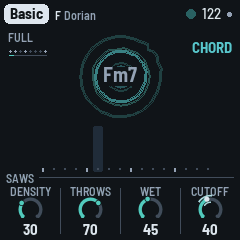
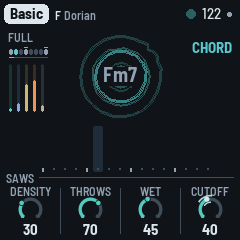
1.4.0: the strips' room (the user's: both): five thin level strips at the left on every page but Arrangement (the chord, the pings, the bass, the drums, the noise; its meters', -48..0 dB; a mute dark, soloed out dimmed), the parts measured on every page now; the phrase's eight bars as cells under th

Changed region(s): [[0.0292, 0.2042, 0.2042, 0.4667]]

diff --git a/firmware/src/app/ui.c b/firmware/src/app/ui.c
@@ -2546,7 +2546,8 @@ static void meter_take(uint32_t now)             /* every frame: the engine's pe
     const float dt = mt.t ? (float)(now - mt.t) * 0.001f : 0.0f;
     int i;
     mt.t = now;
-    en_meter_on = ui.view == V_PERF || ui.view == V_MIX;   /* (the parts measured on this page only: the master always) */
+    en_meter_on = 1;                             /* (1.4.0, the user's: the parts measured on every page now, the strips at
+                                                  * the left theirs) */
     for (i = 0; i < EN_NMETER; i++) {
         const float pk = en_meter[i], d = mt_db(pk);
         en_meter[i] = 0.0f;
@@ -3274,6 +3275,32 @@ static void draw_card(uint32_t now)
     text_c(CX, y + 28, &FONT_XS, ui.card_text, tc);
 }
 
+/* (1.4.0, the user's) at the left, under the phrase: the parts' levels, five thin strips (the chord, the pings, the
+ * bass, the drums, the noise), their meters' (the Arrangement page's), -48..0 dB; a muted part's dark */
+#define ST_Y 36
+#define ST_H 48
+static int strip_h(int r) { return mt_state(r) == 2 ? 0 : (int)(fm_clampf((mt.db[r] + 48.0f) * (1.0f / 48.0f), 0.0f, 1.0f) * ST_H + 0.5f); }
+static void draw_strips(void)
+{
+    static const uint16_t C[NLAYER] = {K_PAD, K_BELL, K_BASS, K_PULSE, K_NOISE};
+    int r;
+    for (r = 0; r < NLAYER; r++) {
+        const int32_t x = 9 + r * 8, h = strip_h(r);
+        const uint16_t c = mt_state(r) == 1 ? mix(K_BG, C[r], 8) : C[r];
+        cv_round(x, ST_Y, 3, ST_H, 1, mix(K_BG, C[r], 3));
+        if (h > 0)
+            cv_round(x, ST_Y + ST_H - h, 3, h, 1, c);
+    }
+}
+static uint32_t strips_sig(void)
+{
+    uint32_t h = 2166136261u;
+    int r;
+    for (r = 0; r < NLAYER; r++)
+        h = hash(h, (uint32_t)strip_h(r) | (uint32_t)mt_state(r) << 8);
+    return h;
+}
+
 /* the corners of the main screen: the phrase's section and its eight bars, the way to the next chord (top left); the
  * page's name, SOLO, hold and lock (top right) */
 static void draw_where(uint32_t now)
@@ -3285,17 +3312,22 @@ static void draw_where(uint32_t now)
         cv_text(8, 2, &FONT_XS, t, en_section == SEC_FULL ? K_DIM : K_ACC);
         for (b = 0; b < 8; b++) {                /* (1.3.0: bars 4 and 8, the B bars, whiter; the 8th blinking on its
                                                   * bar when the next phrase brings a change) */
-            const int bb = (b == 3 || b == 7) && !ui.lock, lit = en_playing && b <= en_phrase_bar;   /* (Lock: all alike) */
-            uint16_t c = lit ? (bb ? K_TEXT : K_DIM) : (bb ? K_DIM : K_LINE);   /* (B bars: ahead, as bright as one played) */
+            const int bb = (b == 3 || b == 7) && !ui.lock, lit = en_playing && b <= en_phrase_bar,   /* (Lock: all alike) */
+                      now_b = en_playing && b == en_phrase_bar;
+            uint16_t c = now_b ? K_ACC : lit ? (bb ? K_TEXT : K_DIM) : (bb ? K_DIM : K_LINE);   /* (B bars: ahead, as
+                                                  * bright as one played; 1.4.0, the user's: a cell a bar, the one
+                                                  * playing lit) */
             if (b == 7 && en_playing && en_phrase_bar == 7 && en_change_next)
                 c = (now / 200u) & 1u ? K_ACC : K_LINE;
-            cv_round(9 + b * 5, 22, 3, 3, 1, c);
+            cv_round(9 + b * 5, 21, 4, 6, 1, c);
+            if (bb)                              /* (the B bars: a tick over them) */
+                cv_rect(9 + b * 5, 19, 4, 1, lit ? K_TEXT : K_DIM);
         }
         if (!en_frozen && en_drift_bars(proj.par[P_DRIFT])) {   /* under them, the way to the next chord (Drift) */
-            int32_t f = (int32_t)(en_drift * 38.0f + 0.5f);
-            cv_rect(9, 27, 38, 1, K_LINE);
+            int32_t f = (int32_t)(en_drift * 39.0f + 0.5f);
+            cv_rect(9, 29, 39, 1, K_LINE);
             if (f > 0)
-                cv_rect(9, 27, f, 1, K_PAD);
+                cv_rect(9, 29, f, 1, K_PAD);
         }
     }
     {   /* (1.3.0) top right: the page's name (PERFORM's too); to its left, LOCK and SOLO while on */
@@ -3400,7 +3432,8 @@ static void draw_main(void)
         h = hash(h, en_chord[i]);
     for (i = 0; i < 6; i++)
         h = hash(h, en_lane[i] | (uint32_t)proj.par[i < 4 ? i : 0] << 16);
-    h = hash(h, en_drum_pos[0]);                 /* (1.4.0: the level strips and the duck meter gone, their redraws too) */
+    h = hash(h, en_drum_pos[0]);                 /* (1.4.0: the duck meter gone; the strips thin, at the left) */
+    h = hash(h, strips_sig());
     h = hash(h, (uint32_t)(en_prog_pos + 1) << 12);
     h = hash(h, (uint32_t)(en_drift * 40.0f) | en_section << 8 | (uint32_t)en_phrase_bar << 12 | (uint32_t)ui.perf << 16 | ui.solo << 20 |
                 (uint32_t)ui.lock << 28);
@@ -3493,6 +3526,7 @@ static void draw_main(void)
             text_c(CX, CY + 11, &FONT_XS, t, K_DIM);
         }
     }
+    draw_strips();
     draw_where(now);
     draw_lanes();
     draw_oct(now);

diff --git a/docs/MANUAL.md b/docs/MANUAL.md
@@ -314,7 +314,7 @@ GLO held on, RESET (red); SEL held, LOCK. Evolve's own nudges show no card.
 
 ## 4. The screen
 
-![The main screen on the Form page: Basic, F Dorian, tempo 122; FULL and the phrase's eight dots top left, bars 4 and 8 brighter, the line to the next chord under them; FORM top right; the ripples with the chord's name in the middle, the six lanes below; FILTER Off, EVOLVE 55, MOTION 30 (its ring marked at 40 and 70), DRIFT 64 bars](img/screen-main.png "The Form page (HOME)")
+![The main screen on the Form page: Basic, F Dorian, tempo 122; FULL and the phrase's eight bar cells top left, bars 4 and 8 ticked, the line to the next chord under them, the five thin level strips under it; FORM top right; the ripples with the chord's name in the middle, the six lanes below; FILTER Off, EVOLVE 55, MOTION 30 (its ring marked at 40 and 70), DRIFT 64 bars](img/screen-main.png "The Form page (HOME)")
 ![A Groove phrase: GROOVE lit top left, fewer stabs in the top lane; MOTION 80](img/screen-groove.png "A Groove")
 
 - **Top line:** the piece in a tag, its root and mode. On the right, a beat light (a play triangle
@@ -324,12 +324,15 @@ GLO held on, RESET (red); SEL held, LOCK. Evolve's own nudges show no card.
   the audio's dropouts, beside the CPU's load); three bars (the outline red when it's nearly empty), or the bars filling
   in turn while USB powers and charges it. Messages ("ADDED F#", "NEXT CHORD ON THE BAR", "DUB HOLD ON", "KICK OFF") show here for
   a moment.
-- **Top left:** the section playing (FULL in grey; BREAK, GROOVE and THIN lit up) and eight dots,
-  the phrase's bars, lit up to the bar playing. Bars 4 and 8, the B bars of the phrase plan (see
-  [The arrangement](#6-the-arrangement)), are brighter, ahead and played; under Lock all eight are
-  alike. On the phrase's last bar, dot 8 blinks when the next phrase brings a change: a new plan,
-  another kick shape or another section. Under the dots, a thin line fills up on the way to the
-  next chord (none when Drift is Hold, or in dub hold).
+- **Top left:** the section playing (FULL in grey; BREAK, GROOVE and THIN lit up) and the phrase's
+  eight bars, a cell each, lit up to the bar playing, the one playing in teal. Bars 4 and 8, the B
+  bars of the phrase plan (see [The arrangement](#6-the-arrangement)), have a tick over them and are
+  brighter, ahead and played; under Lock all eight are alike. On the phrase's last bar, cell 8 blinks
+  when the next phrase brings a change: a new plan, another kick shape or another section. Under the
+  cells, a thin line fills up on the way to the next chord (none when Drift is Hold, or in dub hold).
+- **At the left, under them:** five thin strips, the levels of the chord (teal), the pings (blue),
+  the bass (brass), the drums (amber) and the noise (grey), as the Arrangement page's meters measure
+  them (−48 to 0 dB): a glance at the mix. A muted part's strip is dark; soloed out, dimmed.
 - **Top right:** the page's name, in teal (ARRANGEMENT on SEL's page). SOLO, in yellow, to its left
   while a solo is on. Above it, in red: "hold" in dub hold, "lock" under Lock.
 - **The ripples:** each stab drops a ring in the middle that spreads and fades. Its outline is the
@@ -365,8 +368,8 @@ GLO held on, RESET (red); SEL held, LOCK. Evolve's own nudges show no card.
     (11 kHz, right). Each band is a column of segments: teal, then brass, amber and red at the
     top. The columns jump up with the sound and fall back slowly. A white cap stays at each
     column's peak for a moment before it drops.
-- The levels and the duck are on the Arrangement page (SEL), on its meters; the other pages have
-  no level strips any more (since 1.4.0), the middle theirs.
+- The levels in full and the duck are on the Arrangement page (SEL), on its meters; the other pages
+  show the five thin strips at the left (since 1.4.0; the duck meter is the Arrangement page's).
 - **The lanes:** the bar as it plays, sixteen steps, a lane a layer, each marked in its colour on
   the left: the stabs (teal), the kick (amber), the hats (white), the rim (pink), the clap (yellow), the bass (brass).
   A hit that only sometimes comes (the clap in Auto, a lane's Chance under 50%) is a ring, filled when it plays. The step playing

diff --git a/PLAN.md b/PLAN.md
@@ -729,8 +729,10 @@ The UI plan (build/design/UI-REVIEW.md; the user: "I agree with the plan"), and 
   - Not now: a three-band EQ (the voice pages have the tone), a bus compressor (the CPU).
   - **After step 1** (the user, 2026-10-24): the classic green / yellow / red meters chosen; the duck's row named
     DUCK and as tall as the others; the cards under a second everywhere (they distract; they go with the aids' off
-    switch later); no big ring on the Arrangement page (the notches show the change). Open: what to put in the
-    strips' freed room (the user: perhaps the strips back, reduced).
+    switch later); no big ring on the Arrangement page (the notches show the change). The strips' freed room (the
+    user: "both, let's see how it works in place"): five thin strips at the left (the meters', the noise too), and
+    the phrase's bars as cells under the section (the one playing teal, the B bars ticked). Built; the song line to
+    come with song structure.
   - **Step 1 built** (branch dub-1.4-arr, 2026-10-24): the names (Form, Dub, Arrangement; the identifiers V_DUB,
     V_SPACE, V_PERF kept), the knobs (Energy, Mixer grey, Wet, Duck), the meters (24 segments of 2 dB, -48..0; the
     peak held 1 s; the level's notch; mute dark, soloed out dimmed; GR under the master: the bass's duck while it
